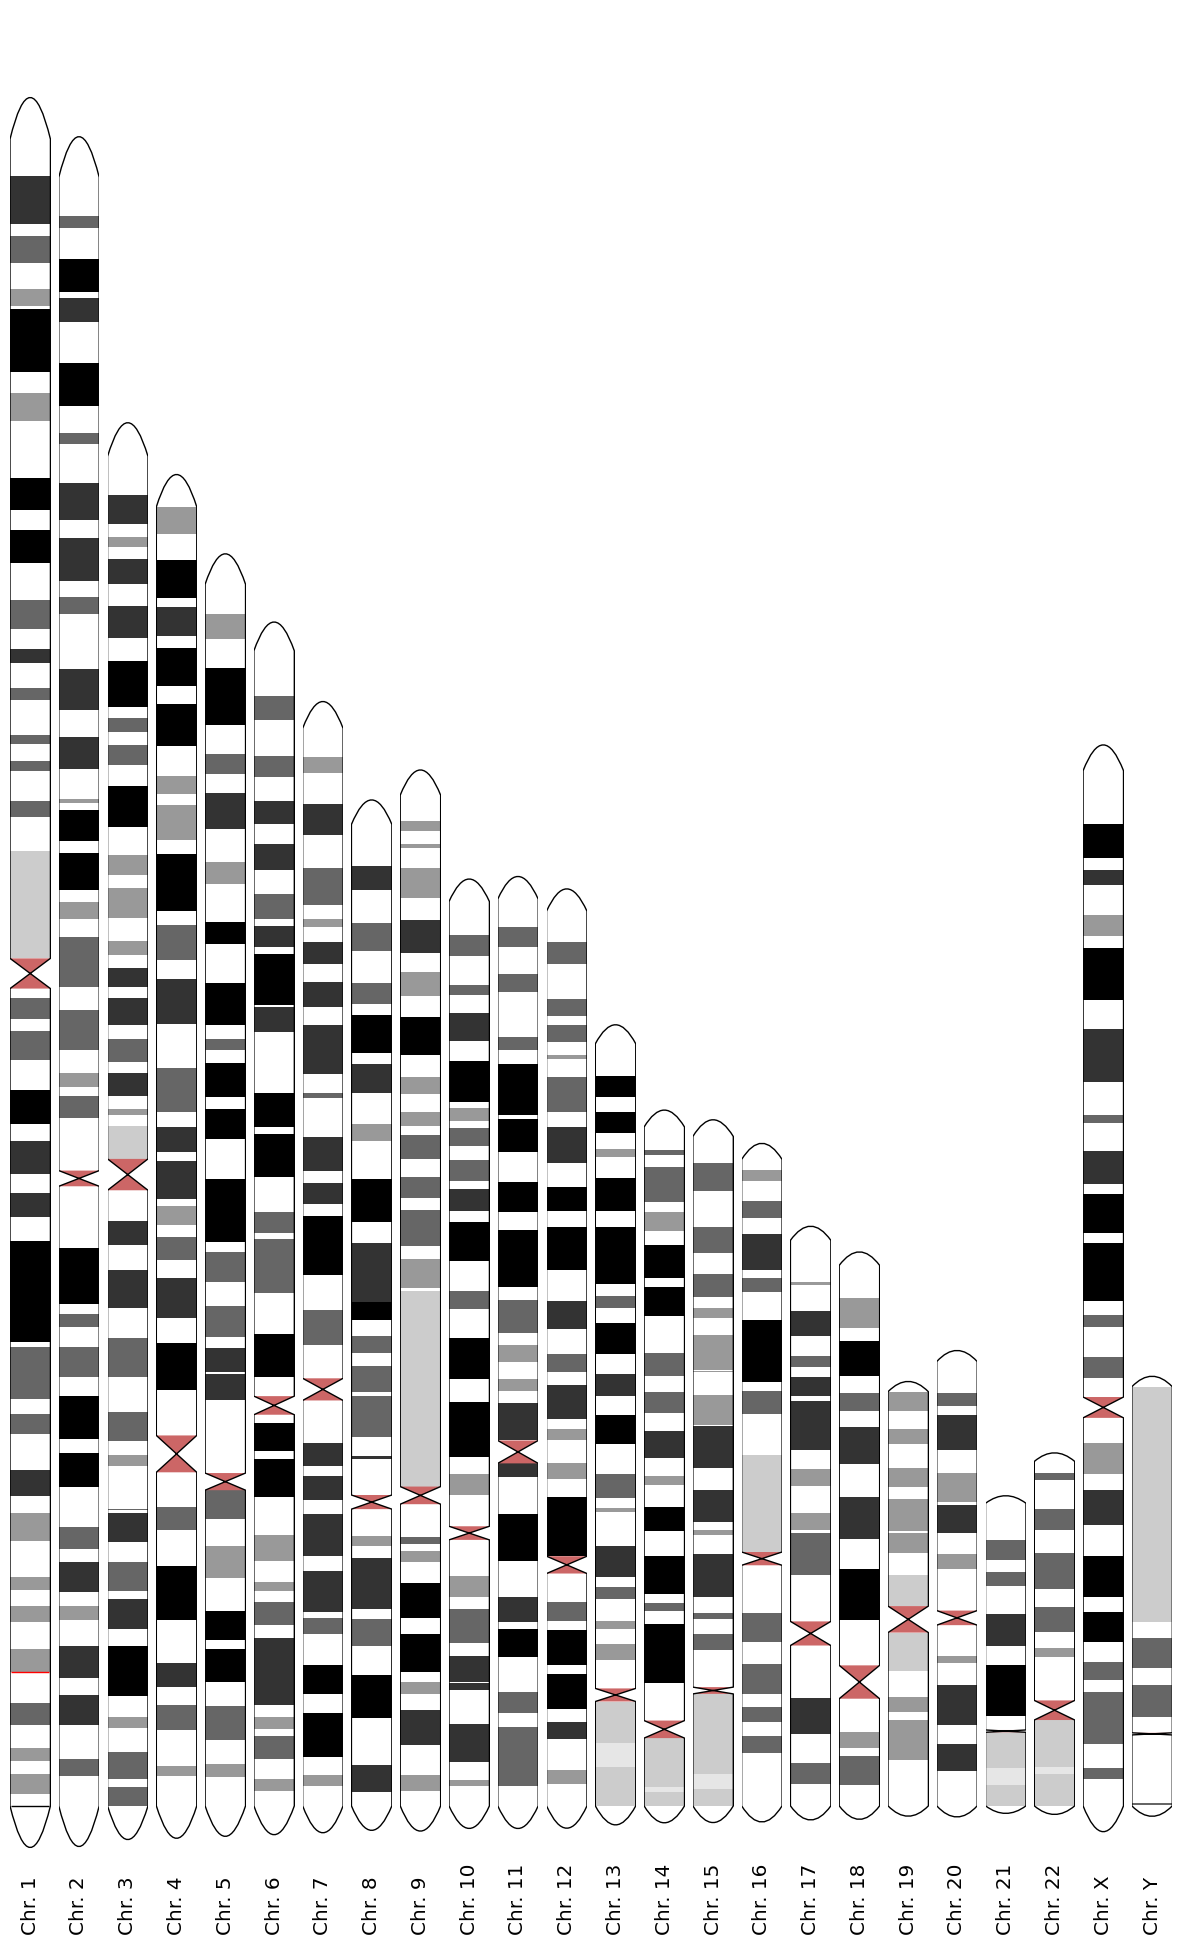
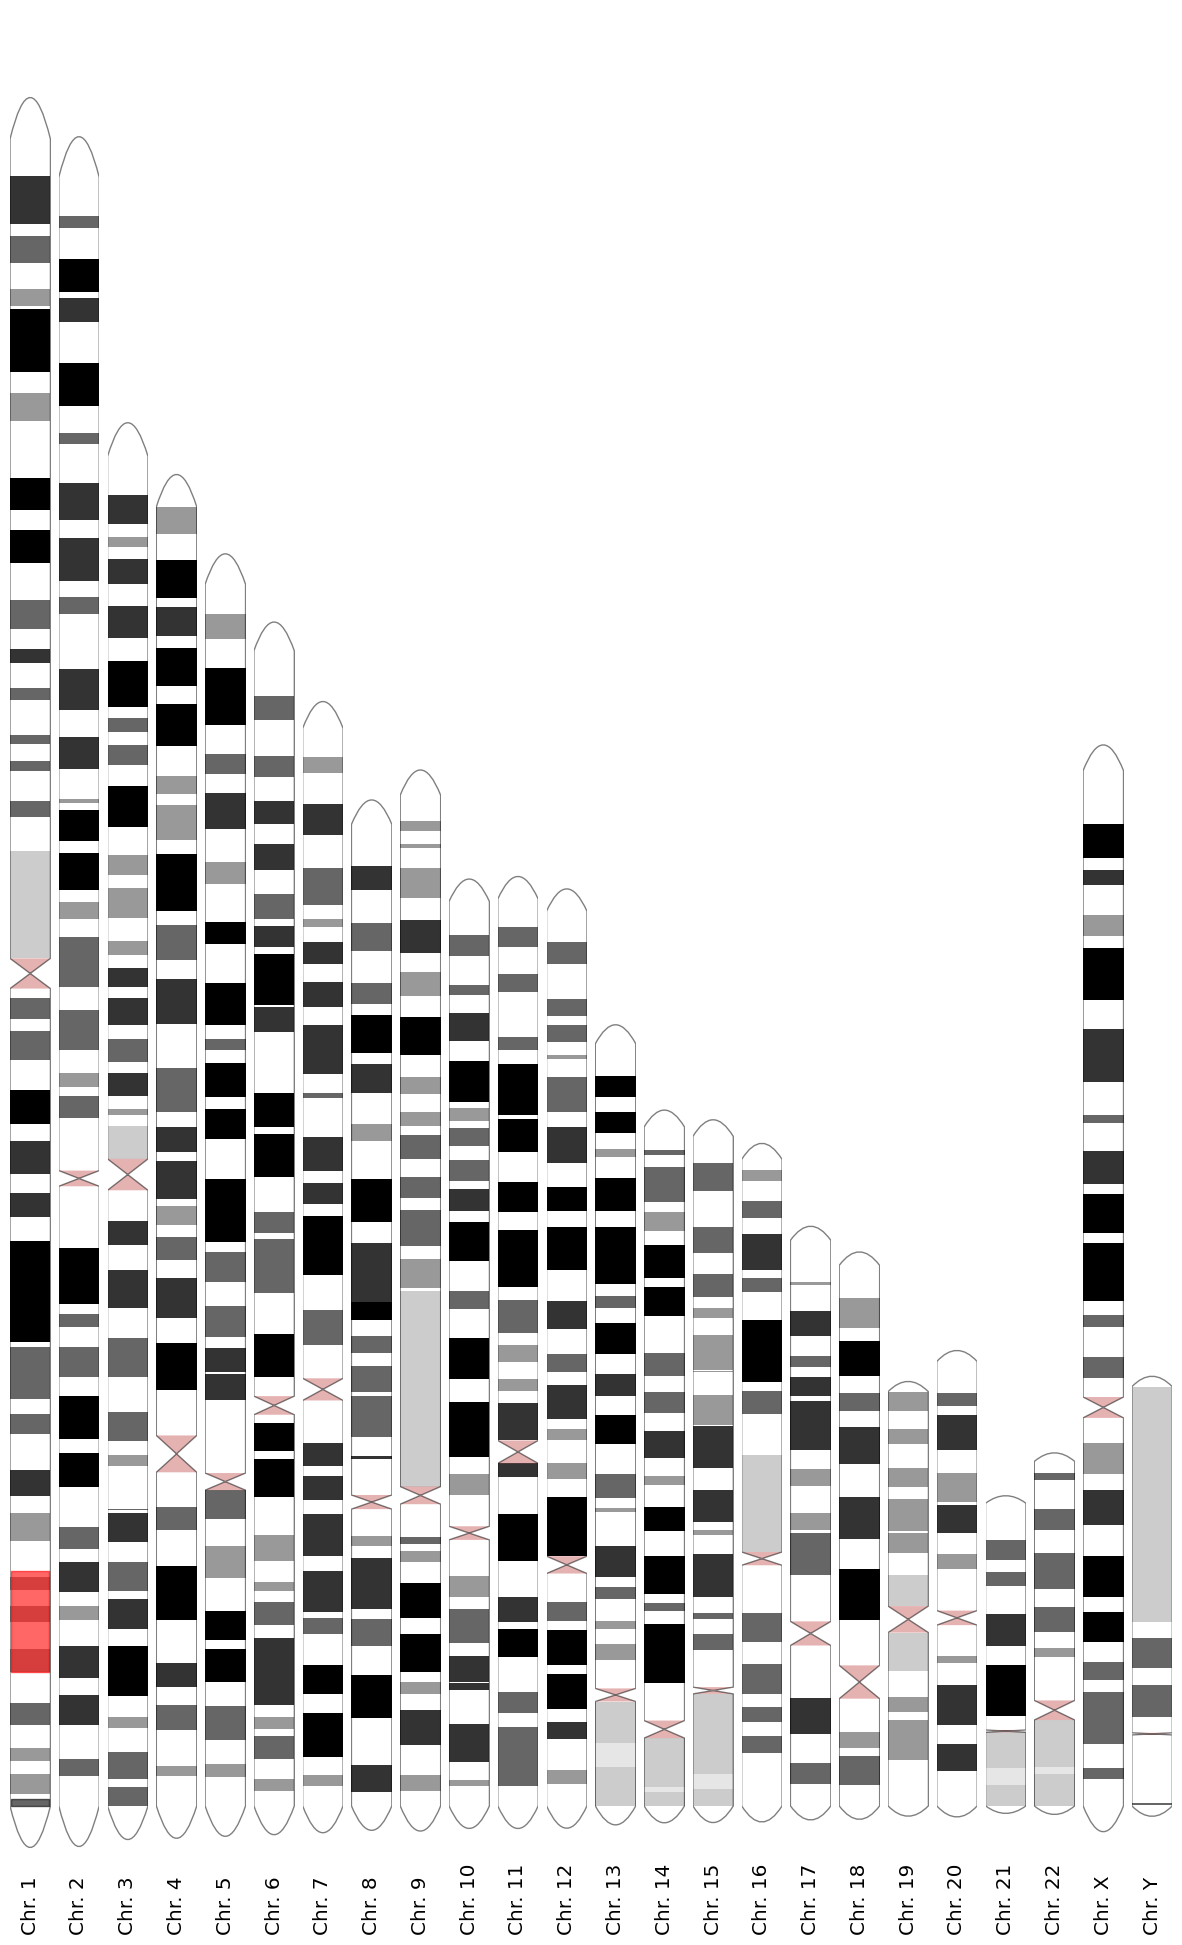
Alpha and zorder of regions

diff --git a/src/pyryotype/ideogram.py b/src/pyryotype/ideogram.py
@@ -175,7 +175,7 @@ def plot_ideogram(
             print(yrange)
 
         else:
-            ax.broken_barh(xrange, yrange, facecolors=df["colour"])
+            ax.broken_barh(xrange, yrange, facecolors=df["colour"], alpha=0.5, zorder=2)
 
     # Define and draw the centromere using the rows marked as 'cen' in the 'gieStain' column
     cen_df = df[df["gieStain"].str.contains("cen")]
@@ -212,14 +212,14 @@ def plot_ideogram(
     if vertical == Orientation.VERTICAL:
         outline = [(command, coords[::-1]) for command, coords in outline]
         cen_poly = [coords[::-1] for coords in cen_poly]
-    cen_patch = PathPatch(MplPath(cen_poly), facecolor=(0.8, 0.4, 0.4), lw=0)
+    cen_patch = PathPatch(MplPath(cen_poly), facecolor=(0.8, 0.4, 0.4), lw=0, alpha=0.5, zorder=2)
     ax.add_patch(cen_patch)
 
     chr_move, chr_poly = zip(
         *outline,
         strict=True,
     )
-    chr_patch = PathPatch(MplPath(chr_poly, chr_move), fill=None, joinstyle="round")
+    chr_patch = PathPatch(MplPath(chr_poly, chr_move), fill=None, joinstyle="round", alpha=0.5, zorder=2)
     ax.add_patch(chr_patch)
 
     # If start and stop positions are provided, draw a rectangle to highlight this region
@@ -253,6 +253,8 @@ def plot_ideogram(
                 fill=kwargs.get("fill", True),
                 color=r_colour,
                 joinstyle="round",
+                zorder=1,
+                alpha=0.6,
             )
             ax.add_patch(r)
 
